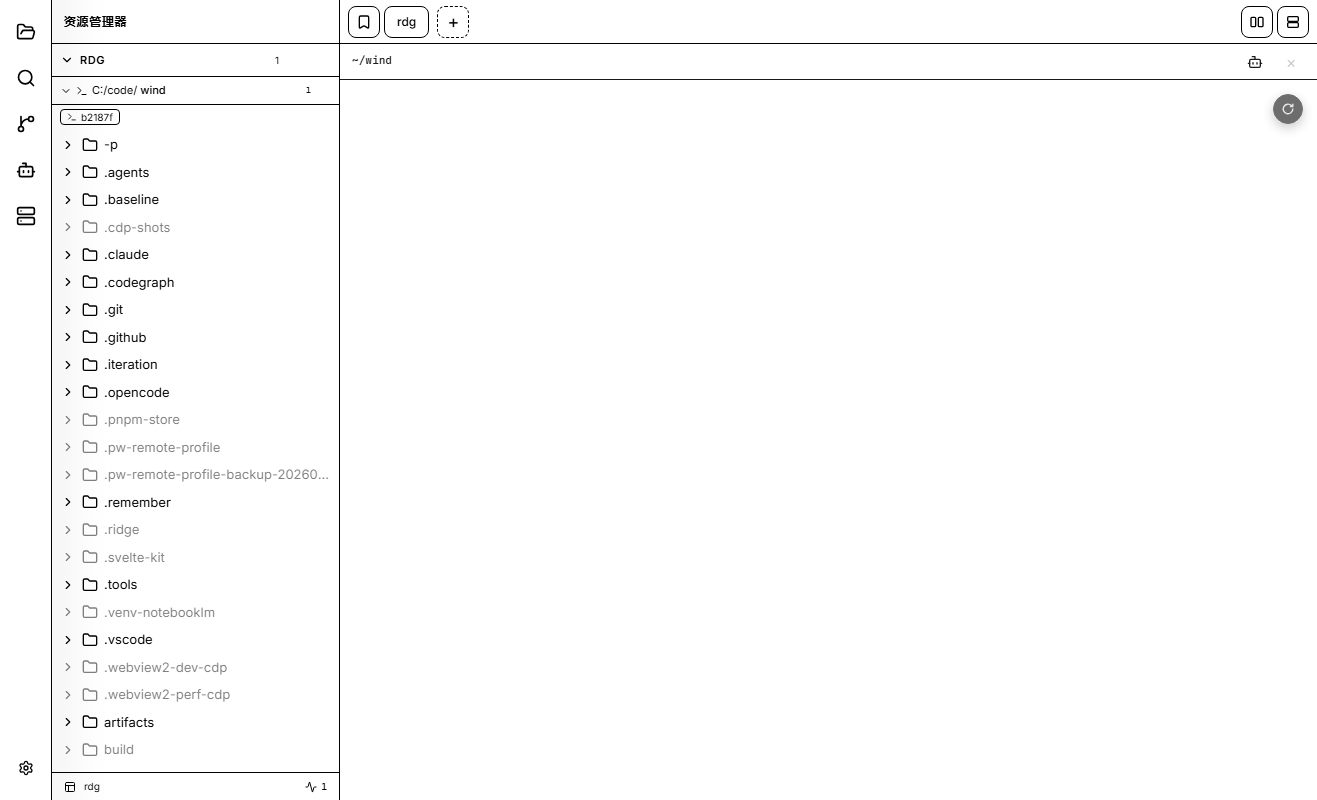
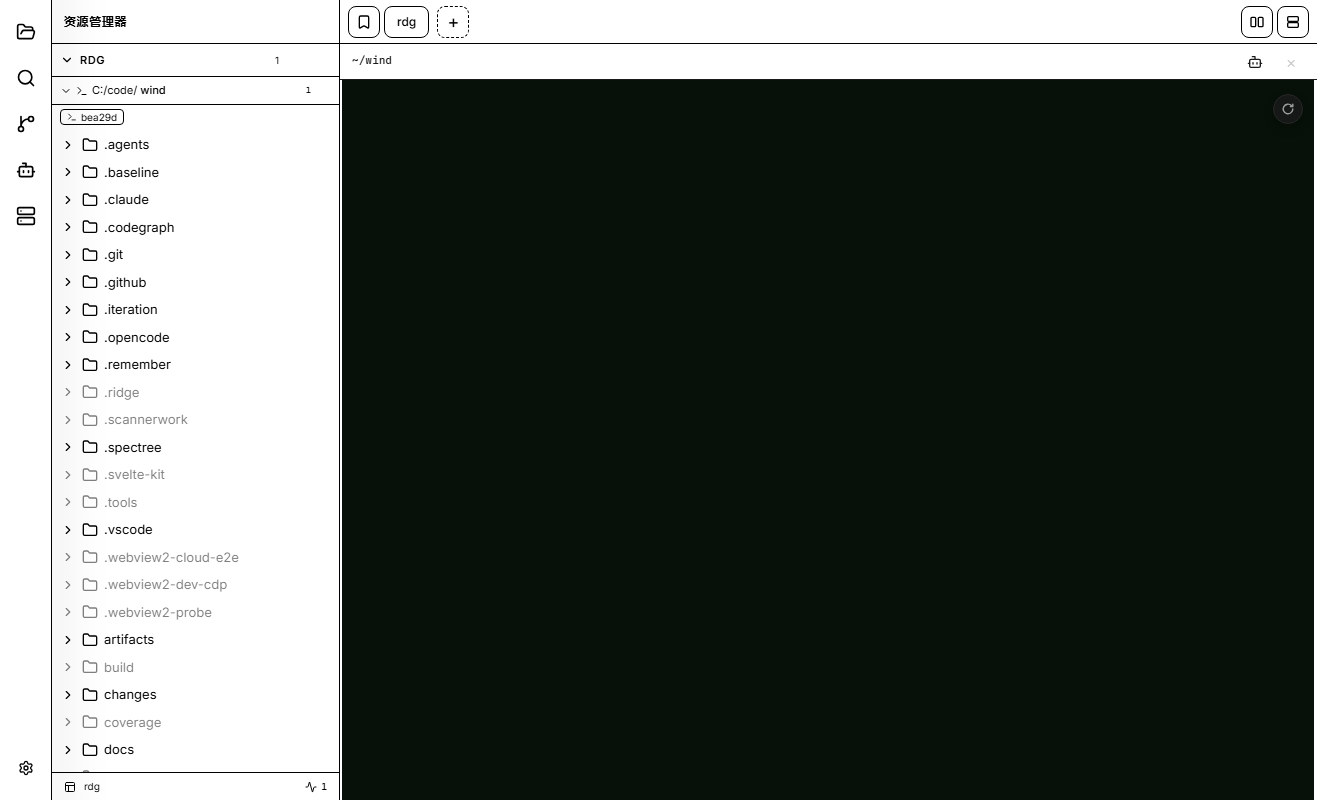
fix(remote): negotiate usable GPU surface limits

diff --git a/packages/remote/src/shared/terminal/manager.ts b/packages/remote/src/shared/terminal/manager.ts
@@ -1065,7 +1065,16 @@ export class TerminalManager {
 				throw failure;
 			}
 			this.globalHost = { canvas, host };
-			this.resizeHost(); // initial swap-chain configure
+			try {
+				this.resizeHost(); // initial swap-chain configure
+			} catch (error) {
+				this.globalHost = null;
+				const failure = error instanceof Error
+					? error
+					: new Error(`WEBGPU_INIT_FAILED: ${unknownText(error)}`);
+				console.error('[ridge-term] terminal GPU surface resize failed', failure);
+				throw failure;
+			}
 		})();
 		this.attachHostPromise = promise;
 		return promise;
@@ -1197,11 +1206,27 @@ export class TerminalManager {
 		const wDev = Math.max(1, Math.round(wCss * dpr));
 		const hDev = Math.max(1, Math.round(hCss * dpr));
 		if (canvas.width === wDev && canvas.height === hDev) return;
+		const previous = {
+			width: canvas.width,
+			height: canvas.height,
+			styleWidth: canvas.style.width,
+			styleHeight: canvas.style.height,
+		};
 		canvas.width = wDev;
 		canvas.height = hDev;
 		canvas.style.width = `${wCss}px`;
 		canvas.style.height = `${hCss}px`;
-		host.resize(wCss, hCss, dpr);
+		try {
+			host.resize(wCss, hCss, dpr);
+		} catch (error) {
+			canvas.width = previous.width;
+			canvas.height = previous.height;
+			canvas.style.width = previous.styleWidth;
+			canvas.style.height = previous.styleHeight;
+			throw error instanceof Error
+				? error
+				: new Error(`WEBGPU_INIT_FAILED: ${unknownText(error)}`);
+		}
 		for (const e of this.panes.values()) {
 			if (e.parked) continue;
 			this._recomputeViewport(e);

diff --git a/packages/remote/src/shared/terminal/manager.test.ts b/packages/remote/src/shared/terminal/manager.test.ts
@@ -1061,6 +1061,26 @@ describe('TerminalManager public kernel and delivery surfaces', () => {
 		expect(internal.globalHost).toBeNull();
 	});
 
+	it('rolls back canvas dimensions when GPU surface resize rejects the viewport', () => {
+		const { manager, fixture, internal } = makeManager();
+		internal.panes.clear();
+		fixture.pane.canvas.width = 80;
+		fixture.pane.canvas.height = 24;
+		fixture.pane.canvas.style.width = '80px';
+		fixture.pane.canvas.style.height = '24px';
+		const host = {
+			resize: vi.fn(() => { throw new Error('WEBGPU_INIT_FAILED: WebGL2 surface exceeds adapter maximum'); }),
+			invalidate: vi.fn(),
+		};
+		internal.globalHost = { canvas: fixture.pane.canvas, host };
+
+		expect(() => manager.resizeHost({ wCss: 3100, hCss: 1348 }))
+			.toThrow('WEBGPU_INIT_FAILED: WebGL2 surface exceeds adapter maximum');
+		expect(fixture.pane.canvas).toMatchObject({ width: 80, height: 24 });
+		expect(fixture.pane.canvas.style).toMatchObject({ width: '80px', height: '24px' });
+		expect(host.invalidate).not.toHaveBeenCalled();
+	});
+
 	it('follows the live shell cursor but locks TUI composition to its start cell', () => {
 		const { manager, fixture } = makeManager();
 		fixture.kernel.cursorRow.mockReturnValue(3);

diff --git a/packages/ridge-term/src/render/gpu_limits.rs b/packages/ridge-term/src/render/gpu_limits.rs
@@ -1,0 +1,128 @@
+//! Device-limit negotiation shared by browser initialization and host tests.
+
+/// Fit requested limits inside one adapter's advertised limits.
+///
+/// `Limits::using_resolution` only copies texture dimensions. Browser adapters
+/// may expose other maxima below wgpu's defaults, so requesting defaults
+/// unchanged can reject an otherwise usable device.
+pub(super) fn fit_required_limits(
+    mut required: wgpu_types::Limits,
+    supported: &wgpu_types::Limits,
+) -> wgpu_types::Limits {
+    macro_rules! clamp_max {
+        ($($field:ident),+ $(,)?) => {
+            $(required.$field = required.$field.min(supported.$field);)+
+        };
+    }
+
+    clamp_max!(
+        max_texture_dimension_1d,
+        max_texture_dimension_2d,
+        max_texture_dimension_3d,
+        max_texture_array_layers,
+        max_bind_groups,
+        max_bindings_per_bind_group,
+        max_dynamic_uniform_buffers_per_pipeline_layout,
+        max_dynamic_storage_buffers_per_pipeline_layout,
+        max_sampled_textures_per_shader_stage,
+        max_samplers_per_shader_stage,
+        max_storage_buffers_per_shader_stage,
+        max_storage_textures_per_shader_stage,
+        max_uniform_buffers_per_shader_stage,
+        max_uniform_buffer_binding_size,
+        max_storage_buffer_binding_size,
+        max_vertex_buffers,
+        max_buffer_size,
+        max_vertex_attributes,
+        max_vertex_buffer_array_stride,
+        max_inter_stage_shader_components,
+        max_color_attachments,
+        max_color_attachment_bytes_per_sample,
+        max_compute_workgroup_storage_size,
+        max_compute_invocations_per_workgroup,
+        max_compute_workgroup_size_x,
+        max_compute_workgroup_size_y,
+        max_compute_workgroup_size_z,
+        max_compute_workgroups_per_dimension,
+        max_push_constant_size,
+        max_non_sampler_bindings,
+    );
+    required.min_uniform_buffer_offset_alignment = required
+        .min_uniform_buffer_offset_alignment
+        .max(supported.min_uniform_buffer_offset_alignment);
+    required.min_storage_buffer_offset_alignment = required
+        .min_storage_buffer_offset_alignment
+        .max(supported.min_storage_buffer_offset_alignment);
+    required
+}
+
+pub(super) fn validate_surface_extent(
+    width: u32,
+    height: u32,
+    max_texture_dimension_2d: u32,
+) -> Result<(), String> {
+    if width <= max_texture_dimension_2d && height <= max_texture_dimension_2d {
+        return Ok(());
+    }
+    Err(format!(
+        "surface {width}x{height} exceeds adapter maximum {max_texture_dimension_2d}"
+    ))
+}
+
+#[cfg(test)]
+mod tests {
+    use super::{fit_required_limits, validate_surface_extent};
+
+    #[test]
+    fn fits_nonstandard_browser_color_attachment_limit() {
+        let requested = wgpu_types::Limits::downlevel_defaults();
+        let mut supported = requested.clone();
+        supported.max_color_attachments = 6;
+
+        let fitted = fit_required_limits(requested, &supported);
+
+        assert_eq!(fitted.max_color_attachments, 6);
+        assert!(fitted.check_limits(&supported));
+    }
+
+    #[test]
+    fn fits_downlevel_maxima_and_adapter_alignments() {
+        let requested = wgpu_types::Limits::downlevel_defaults();
+        let mut supported = requested.clone();
+        supported.max_inter_stage_shader_components = 31;
+        supported.max_vertex_buffer_array_stride = 1024;
+        supported.min_uniform_buffer_offset_alignment = 512;
+        supported.min_storage_buffer_offset_alignment = 512;
+
+        let fitted = fit_required_limits(requested, &supported);
+
+        assert_eq!(fitted.max_inter_stage_shader_components, 31);
+        assert_eq!(fitted.max_vertex_buffer_array_stride, 1024);
+        assert_eq!(fitted.min_uniform_buffer_offset_alignment, 512);
+        assert_eq!(fitted.min_storage_buffer_offset_alignment, 512);
+        assert!(fitted.check_limits(&supported));
+    }
+
+    #[test]
+    fn keeps_adapter_resolution_while_fitting_other_limits() {
+        let requested = wgpu_types::Limits::downlevel_webgl2_defaults();
+        let mut supported = wgpu_types::Limits::downlevel_defaults();
+        supported.max_texture_dimension_2d = 8192;
+        supported.max_color_attachments = 6;
+
+        let fitted = fit_required_limits(requested.using_resolution(supported.clone()), &supported);
+
+        assert_eq!(fitted.max_texture_dimension_2d, 8192);
+        assert_eq!(fitted.max_color_attachments, 6);
+        assert!(fitted.check_limits(&supported));
+    }
+
+    #[test]
+    fn rejects_surface_extent_before_wgpu_panics() {
+        assert!(validate_surface_extent(2048, 2048, 2048).is_ok());
+        assert_eq!(
+            validate_surface_extent(3100, 1348, 2048).unwrap_err(),
+            "surface 3100x1348 exceeds adapter maximum 2048"
+        );
+    }
+}

diff --git a/packages/ridge-term/src/render/surface_host.rs b/packages/ridge-term/src/render/surface_host.rs
@@ -42,6 +42,7 @@ use crate::term::grid::ScrollOp;
 
 use super::backend::{scroll_copy_plan, ScrollCopyResult};
 use super::gpu_context::{GpuContext, WALLPAPER_UNIFORM_SIZE};
+use super::gpu_limits::validate_surface_extent;
 use super::wallpaper::cover_uv_transform;
 
 /// Pane viewport rectangle in **host-canvas device-pixel coordinates**.
@@ -553,12 +554,21 @@ impl SurfaceHost {
     /// `(width_css * dpr, height_css * dpr)`. JS is responsible for
     /// updating `canvas.width / canvas.height` in lockstep so the
     /// surface configure matches the HTML element's allocation.
-    pub fn resize(&mut self, width_css: u32, height_css: u32, dpr: f32) {
+    pub fn resize(&mut self, width_css: u32, height_css: u32, dpr: f32) -> Result<(), String> {
         let backing_w = ((width_css as f32) * dpr).round().max(1.0) as u32;
         let backing_h = ((height_css as f32) * dpr).round().max(1.0) as u32;
         if self.config.width == backing_w && self.config.height == backing_h {
-            return;
+            return Ok(());
         }
+        let (backend_name, max_texture_dimension_2d) = {
+            let ctx = self.ctx.borrow();
+            (
+                ctx.backend_name,
+                ctx.device.limits().max_texture_dimension_2d,
+            )
+        };
+        validate_surface_extent(backing_w, backing_h, max_texture_dimension_2d)
+            .map_err(|error| format!("WEBGPU_INIT_FAILED: {backend_name} {error}"))?;
         self.config.width = backing_w;
         self.config.height = backing_h;
         self.surface
@@ -595,6 +605,7 @@ impl SurfaceHost {
         self.frame_scroll_scratch = frame_scroll_scratch;
         self.blit_bind_group = blit_bind_group;
         self.needs_full_seed = true;
+        Ok(())
     }
 
     /// Mark the persistent frame store for one structural repaint.

diff --git a/packages/ridge-term/src/render/gpu_context.rs b/packages/ridge-term/src/render/gpu_context.rs
@@ -47,6 +47,7 @@ use web_sys::HtmlCanvasElement;
 
 use super::glyph_atlas::{pick_evictable_layer, GlyphAtlas, GlyphEntry, GlyphKey};
 use super::glyph_rasterizer::{GlyphRasterizer, RasterizedGlyph};
+use super::gpu_limits::fit_required_limits;
 
 /// Atlas slot dimension floors in device pixels. `slot_w` is rounded up
 /// to a power of two so `bytes_per_row = slot_w × 4` automatically
@@ -400,15 +401,22 @@ impl GpuContext {
         // bounded while giving Claude-style TUIs (CJK + box-drawing
         // + spinner glyphs) enough cache headroom to avoid LRU thrash.
         let adapter_limits = adapter.limits();
-        let atlas_layers: u32 = adapter_limits
+        if adapter_limits.max_texture_array_layers < ATLAS_LAYERS_MIN {
+            return Err(format!(
+                "GpuContext: adapter exposes {} texture-array layers; {} required",
+                adapter_limits.max_texture_array_layers, ATLAS_LAYERS_MIN
+            ));
+        }
+        let atlas_layers = adapter_limits
             .max_texture_array_layers
-            .clamp(ATLAS_LAYERS_MIN, ATLAS_LAYERS_MAX);
-        let mut required_limits = if adapter_info.backend == wgpu::Backend::Gl {
+            .min(ATLAS_LAYERS_MAX);
+        let required_limits = if adapter_info.backend == wgpu::Backend::Gl {
             wgpu::Limits::downlevel_webgl2_defaults()
         } else {
             wgpu::Limits::downlevel_defaults()
         }
-        .using_resolution(adapter_limits);
+        .using_resolution(adapter_limits.clone());
+        let mut required_limits = fit_required_limits(required_limits, &adapter_limits);
         required_limits.max_texture_array_layers = atlas_layers;
 
         let (device, queue) = adapter

diff --git a/packages/ridge-term/src/lib.rs b/packages/ridge-term/src/lib.rs
@@ -1658,8 +1658,11 @@ mod renderer_js {
         /// Resize the host swap chain. JS drives this from a
         /// ResizeObserver on the host canvas's parent so the surface
         /// always matches the visible workspace area.
-        pub fn resize(&self, width_css: u32, height_css: u32, dpr: f32) {
-            self.host.borrow_mut().resize(width_css, height_css, dpr);
+        pub fn resize(&self, width_css: u32, height_css: u32, dpr: f32) -> Result<(), JsValue> {
+            self.host
+                .borrow_mut()
+                .resize(width_css, height_css, dpr)
+                .map_err(JsValue::from)
         }
 
         /// Mark the next frame for a fresh `LoadOp::Clear`. JS calls

diff --git a/packages/ridge-term/src/render/mod.rs b/packages/ridge-term/src/render/mod.rs
@@ -11,6 +11,8 @@ pub mod glyph_atlas;
 pub mod glyph_rasterizer;
 #[cfg(all(target_arch = "wasm32", feature = "webgpu"))]
 pub mod gpu_context;
+#[cfg(feature = "webgpu")]
+mod gpu_limits;
 pub mod renderer;
 #[cfg(all(target_arch = "wasm32", feature = "webgpu"))]
 pub mod surface_host;

diff --git a/changes/CHG-014.md b/changes/CHG-014.md
@@ -1,0 +1,28 @@
+---
+id: CHG-014
+title: Honor WebGL2 surface limits without panicking
+type: SEMANTIC_CHANGE
+status: DRAFT
+affects:
+  - L4-REMOTE-GPU-COMPAT-001
+---
+
+# Honor WebGL2 surface limits without panicking
+
+The WebGL2 device request kept the portable 2048 texture-dimension default
+even when the adapter advertised a larger render target. A desktop shared
+surface therefore panicked at 3100x1348, while mobile viewports happened to
+fit.
+
+## Acceptance
+
+- Device negotiation adopts the adapter's texture resolution limits and still
+  clamps every other requested maximum to supported values.
+- Surface resize validates its backing extent before `wgpu::Surface::configure`
+  and returns a structured initialization error instead of panicking.
+- Failed initial resize releases the half-attached host; canvas dimensions and
+  styles roll back on any resize rejection.
+- WebGPU desktop, WebGL2 fallback, and mobile Remote fixtures retain their
+  existing renderer API and behavior.
+
+Describe the approved semantic delta and its acceptance tests.

diff --git a/changes/CHG-011.md b/changes/CHG-011.md
@@ -1,0 +1,27 @@
+---
+id: CHG-011
+title: Negotiate terminal GPU device limits
+type: SEMANTIC_CHANGE
+status: COMPLETED
+affects:
+  - L4-REMOTE-GPU-COMPAT-001
+---
+
+# Negotiate terminal GPU device limits
+
+## Semantic delta
+
+- Clamp every requested maximum to the selected adapter's advertised value.
+- Adopt adapter-required buffer alignments.
+- Keep negotiation host-testable through wgpu's shared `wgpu-types` contract.
+- Authorize the workspace lockfile and render-module registration changed by
+  that shared type module.
+- Reject an adapter below the glyph atlas's 256-layer floor before device
+  creation.
+
+## Acceptance
+
+- Native tests cover a browser adapter exposing six color attachments.
+- `cargo test -p ridge-term --lib` passes.
+- Mobile LAN E2E initializes WebGPU without `LimitsExceeded`.
+- Forced WebGL2 mobile E2E uses the same renderer and passes.
